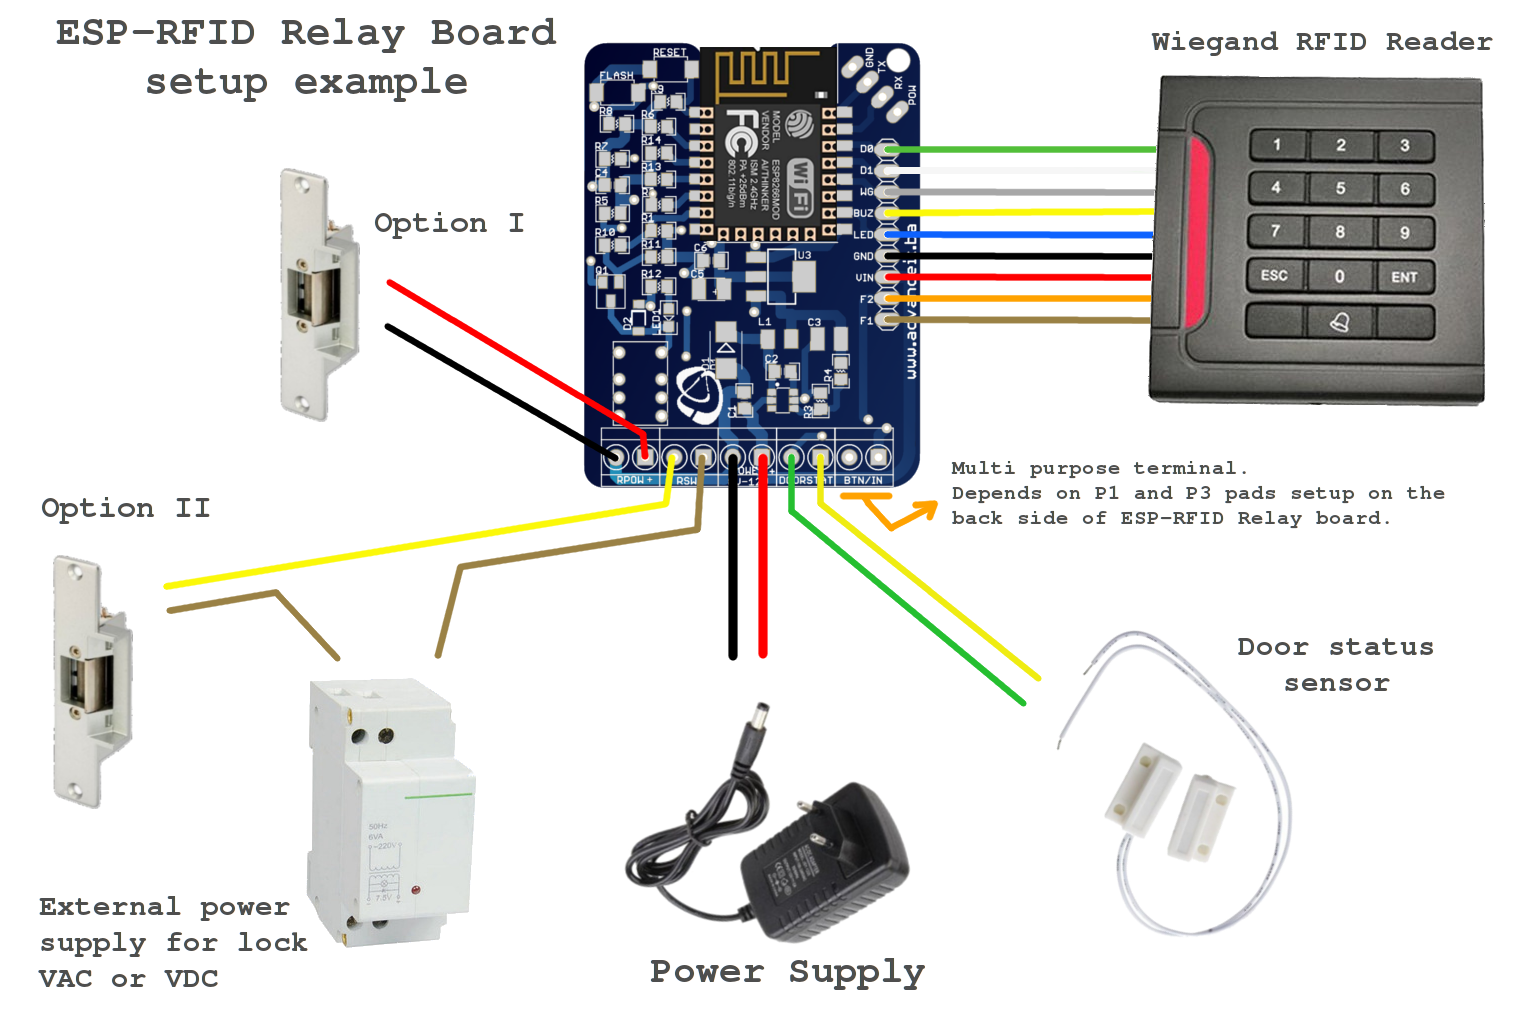
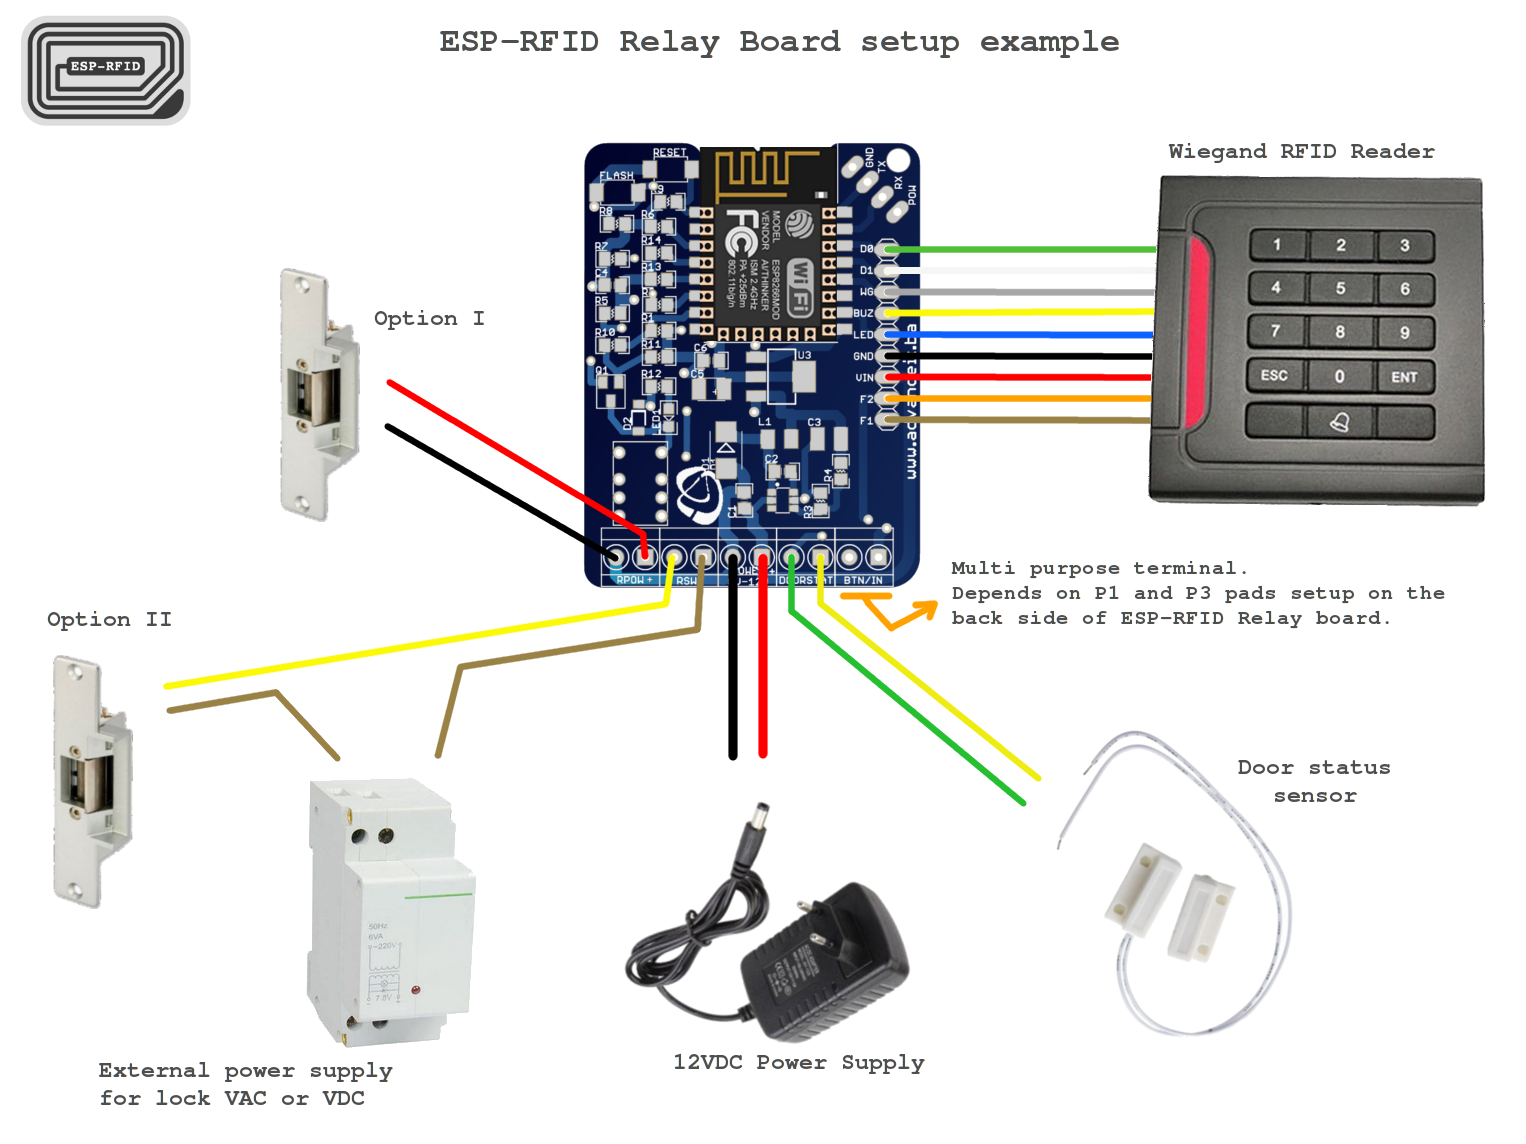
images

diff --git a/README.md b/README.md
@@ -1,4 +1,39 @@
 # ESP-RFID Relay Board
 
+This project is follow up for "ESP-RFID Board" but with few more options and
 
-This prject is follow up for "ESP-RFID Board" but with few more options and 
+<img src="https://raw.githubusercontent.com/esprfid/esp-rfid-relay-board/master/images/ESP-RFID-Relay-Board.jpg" width="400" />&nbsp;&nbsp;
+
+## What is ESP-RFID Relay Board?
+ESP-RFID Relay Board is tiny ESP12 module (ESP8266) board, designed with wiegand RFID readers in mind and opensource ESP-RFID Firmware which you can check here: [ESP-RFID Firmware](https://github.com/esprfid/esp-rfid).
+
+
+- Small size factor, sometimes possible to glue it into existing readers.
+- Single power source to power 12V/2A powers ESP12 module, RFID Wiegand Reader and magnetic lock for opening doors.
+- Exposed programming pins for ESP8266
+- Due to interesting hardware design, you get multiple possible setup options:
+-- Forward Bell ringing on reader to MCU or pass it out of board
+-- Track Door Status
+-- Control reader’s status LED
+-- Control reader’s status BUZZER sound
+-- Power reader, lock and the board through single 12V, 2A PSU
+-- Optionally power magnetic lock through external AC/DC PSU
+-- Possible to use any kind and any type of wiegand readers
+-- Enables you to make IOT Access System with very litle wiring
+-- Fit in universal enclosures with DIN mount
+- Opensource Hardware/Cloud RFID reader/Wifi RFID reader
+
+## Wiring example:
+
+<img src="https://raw.githubusercontent.com/esprfid/esp-rfid-relay-board/master/images/ESP-RFID-Setup.png" width="" />&nbsp;&nbsp;
+
+
+## Short video walk through
+
+[![ESP8266 RFID Wiegand ESP12 Nodemcu](https://img.youtube.com/vi/rXRt-YkzXZU/0.jpg)](https://youtu.be/rXRt-YkzXZU)
+
+
+### You can get this board from my Tindie shop:
+<a href="https://www.tindie.com/products/nardev/esp-rfid-relay-board-12v-in-esp8266-board/">
+<img src="https://d2ss6ovg47m0r5.cloudfront.net/badges/tindie-larges.png" alt="I sell on Tindie" width="200" height="104">
+</a>
